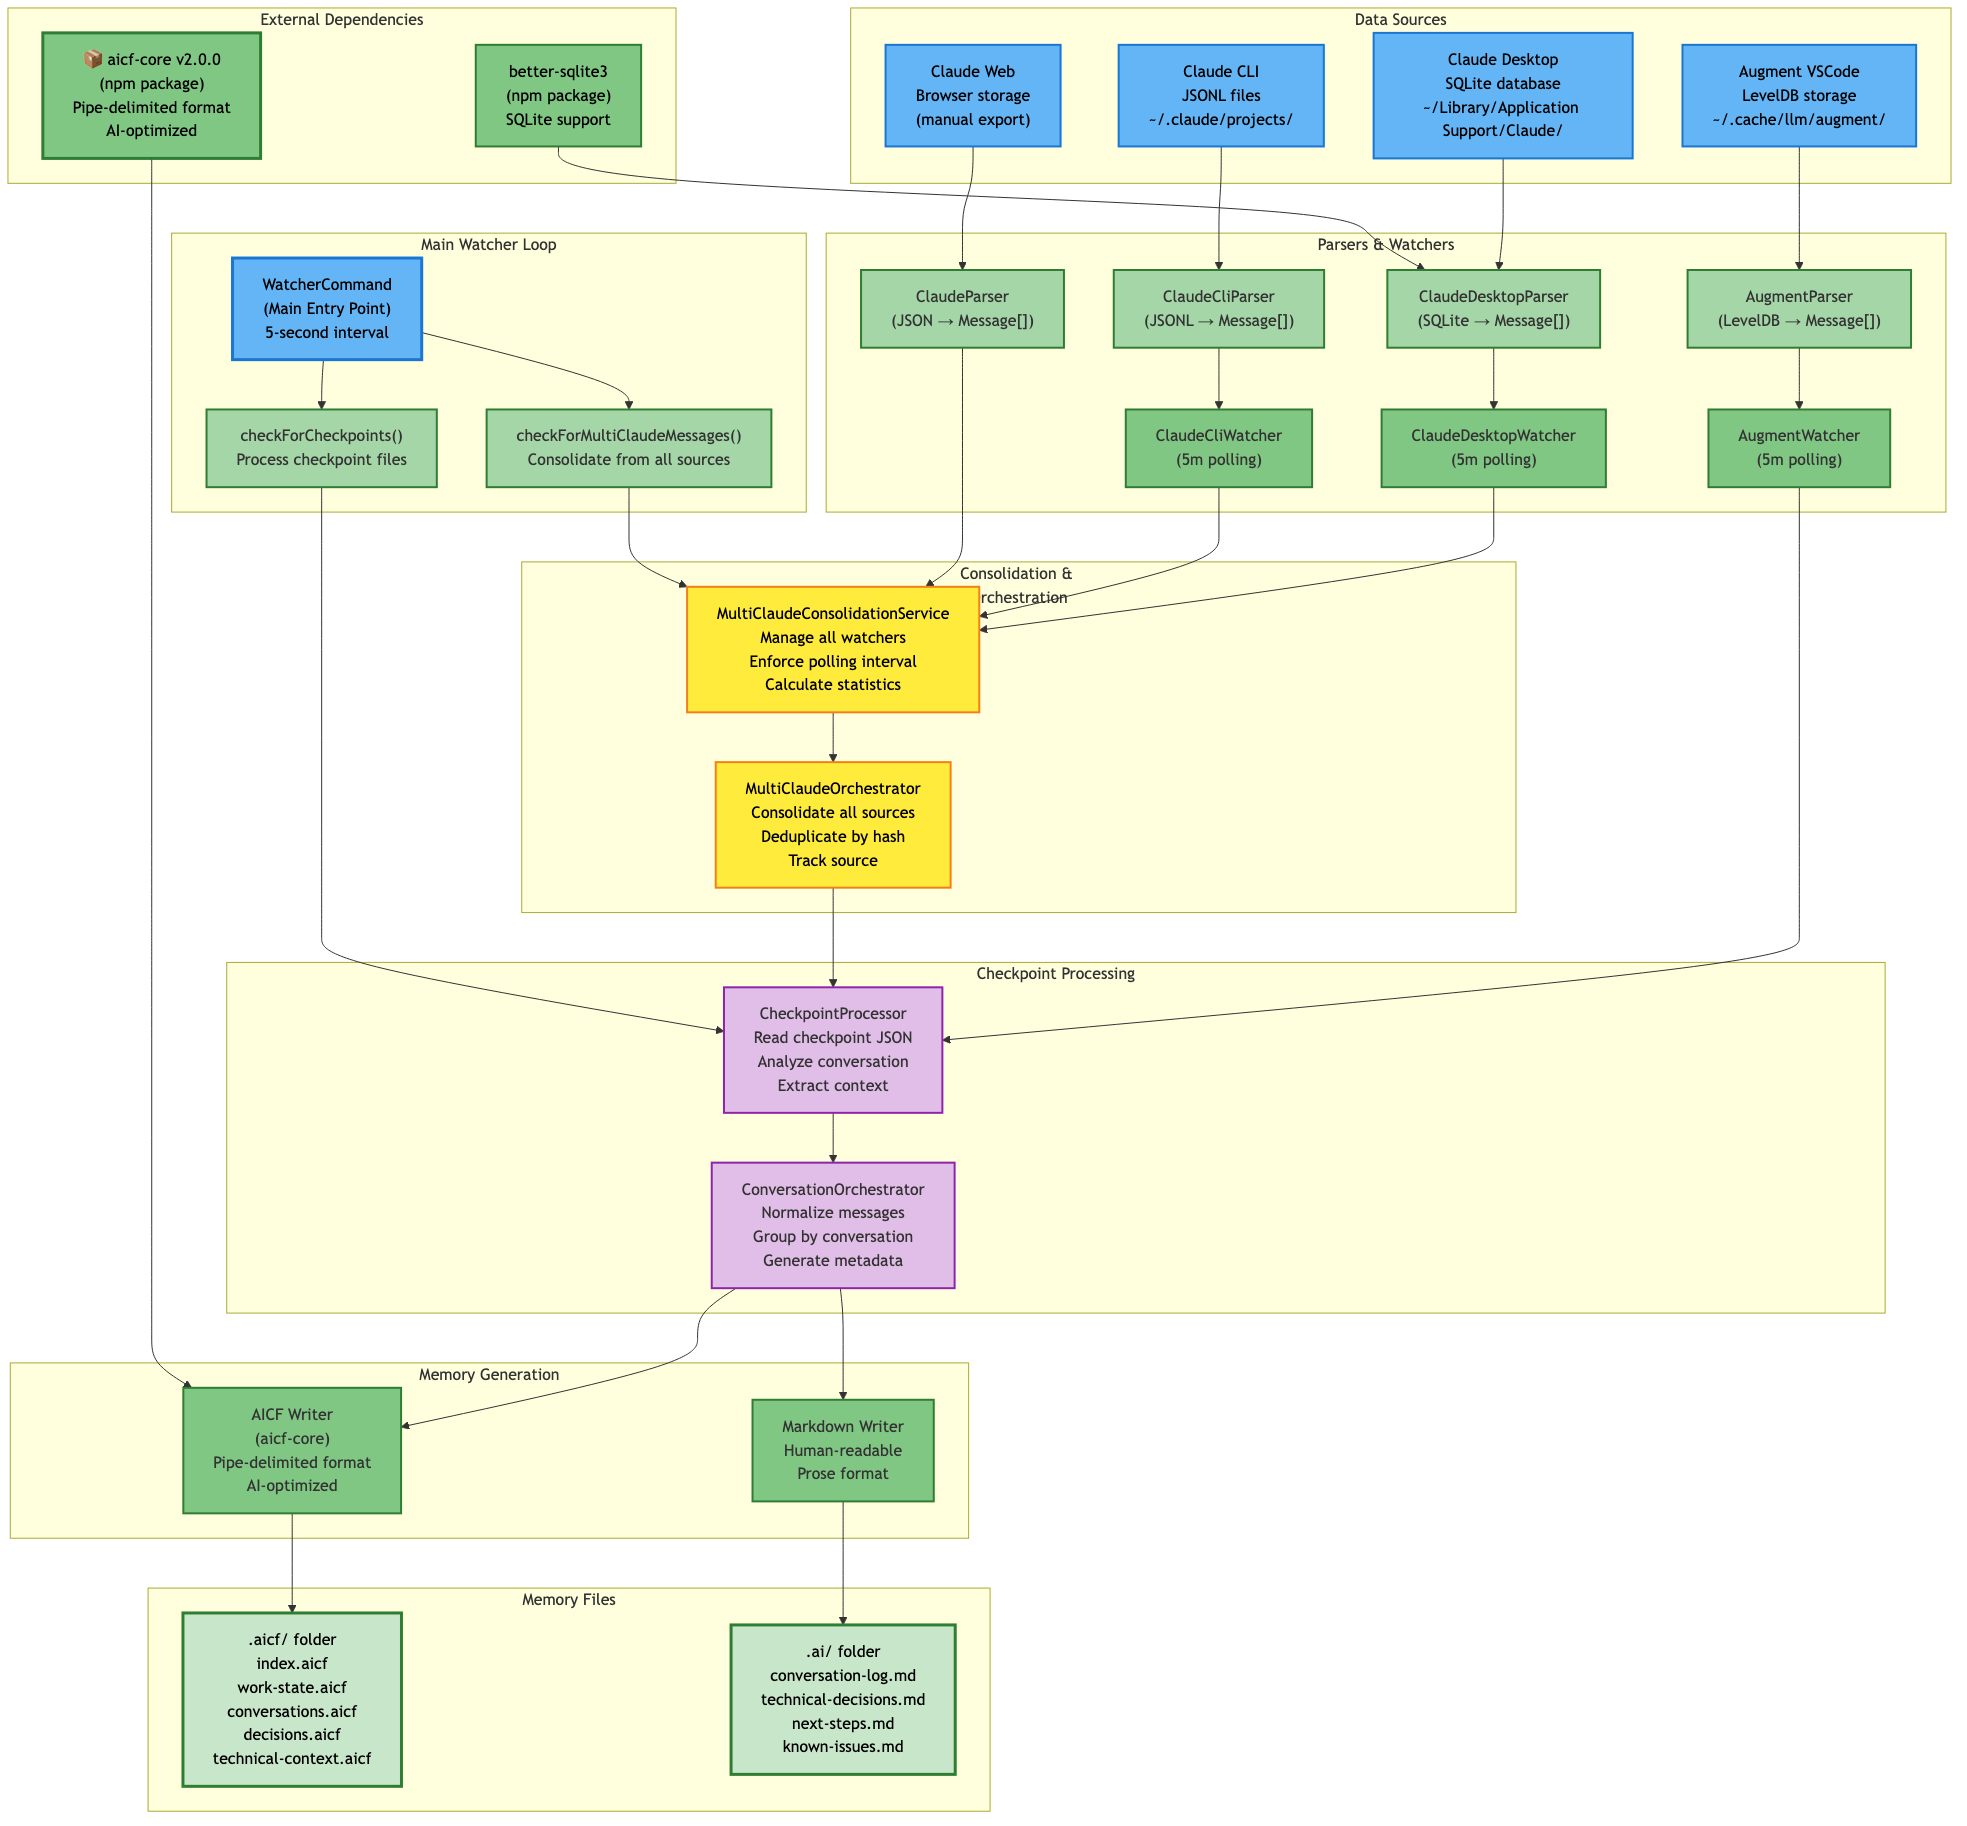
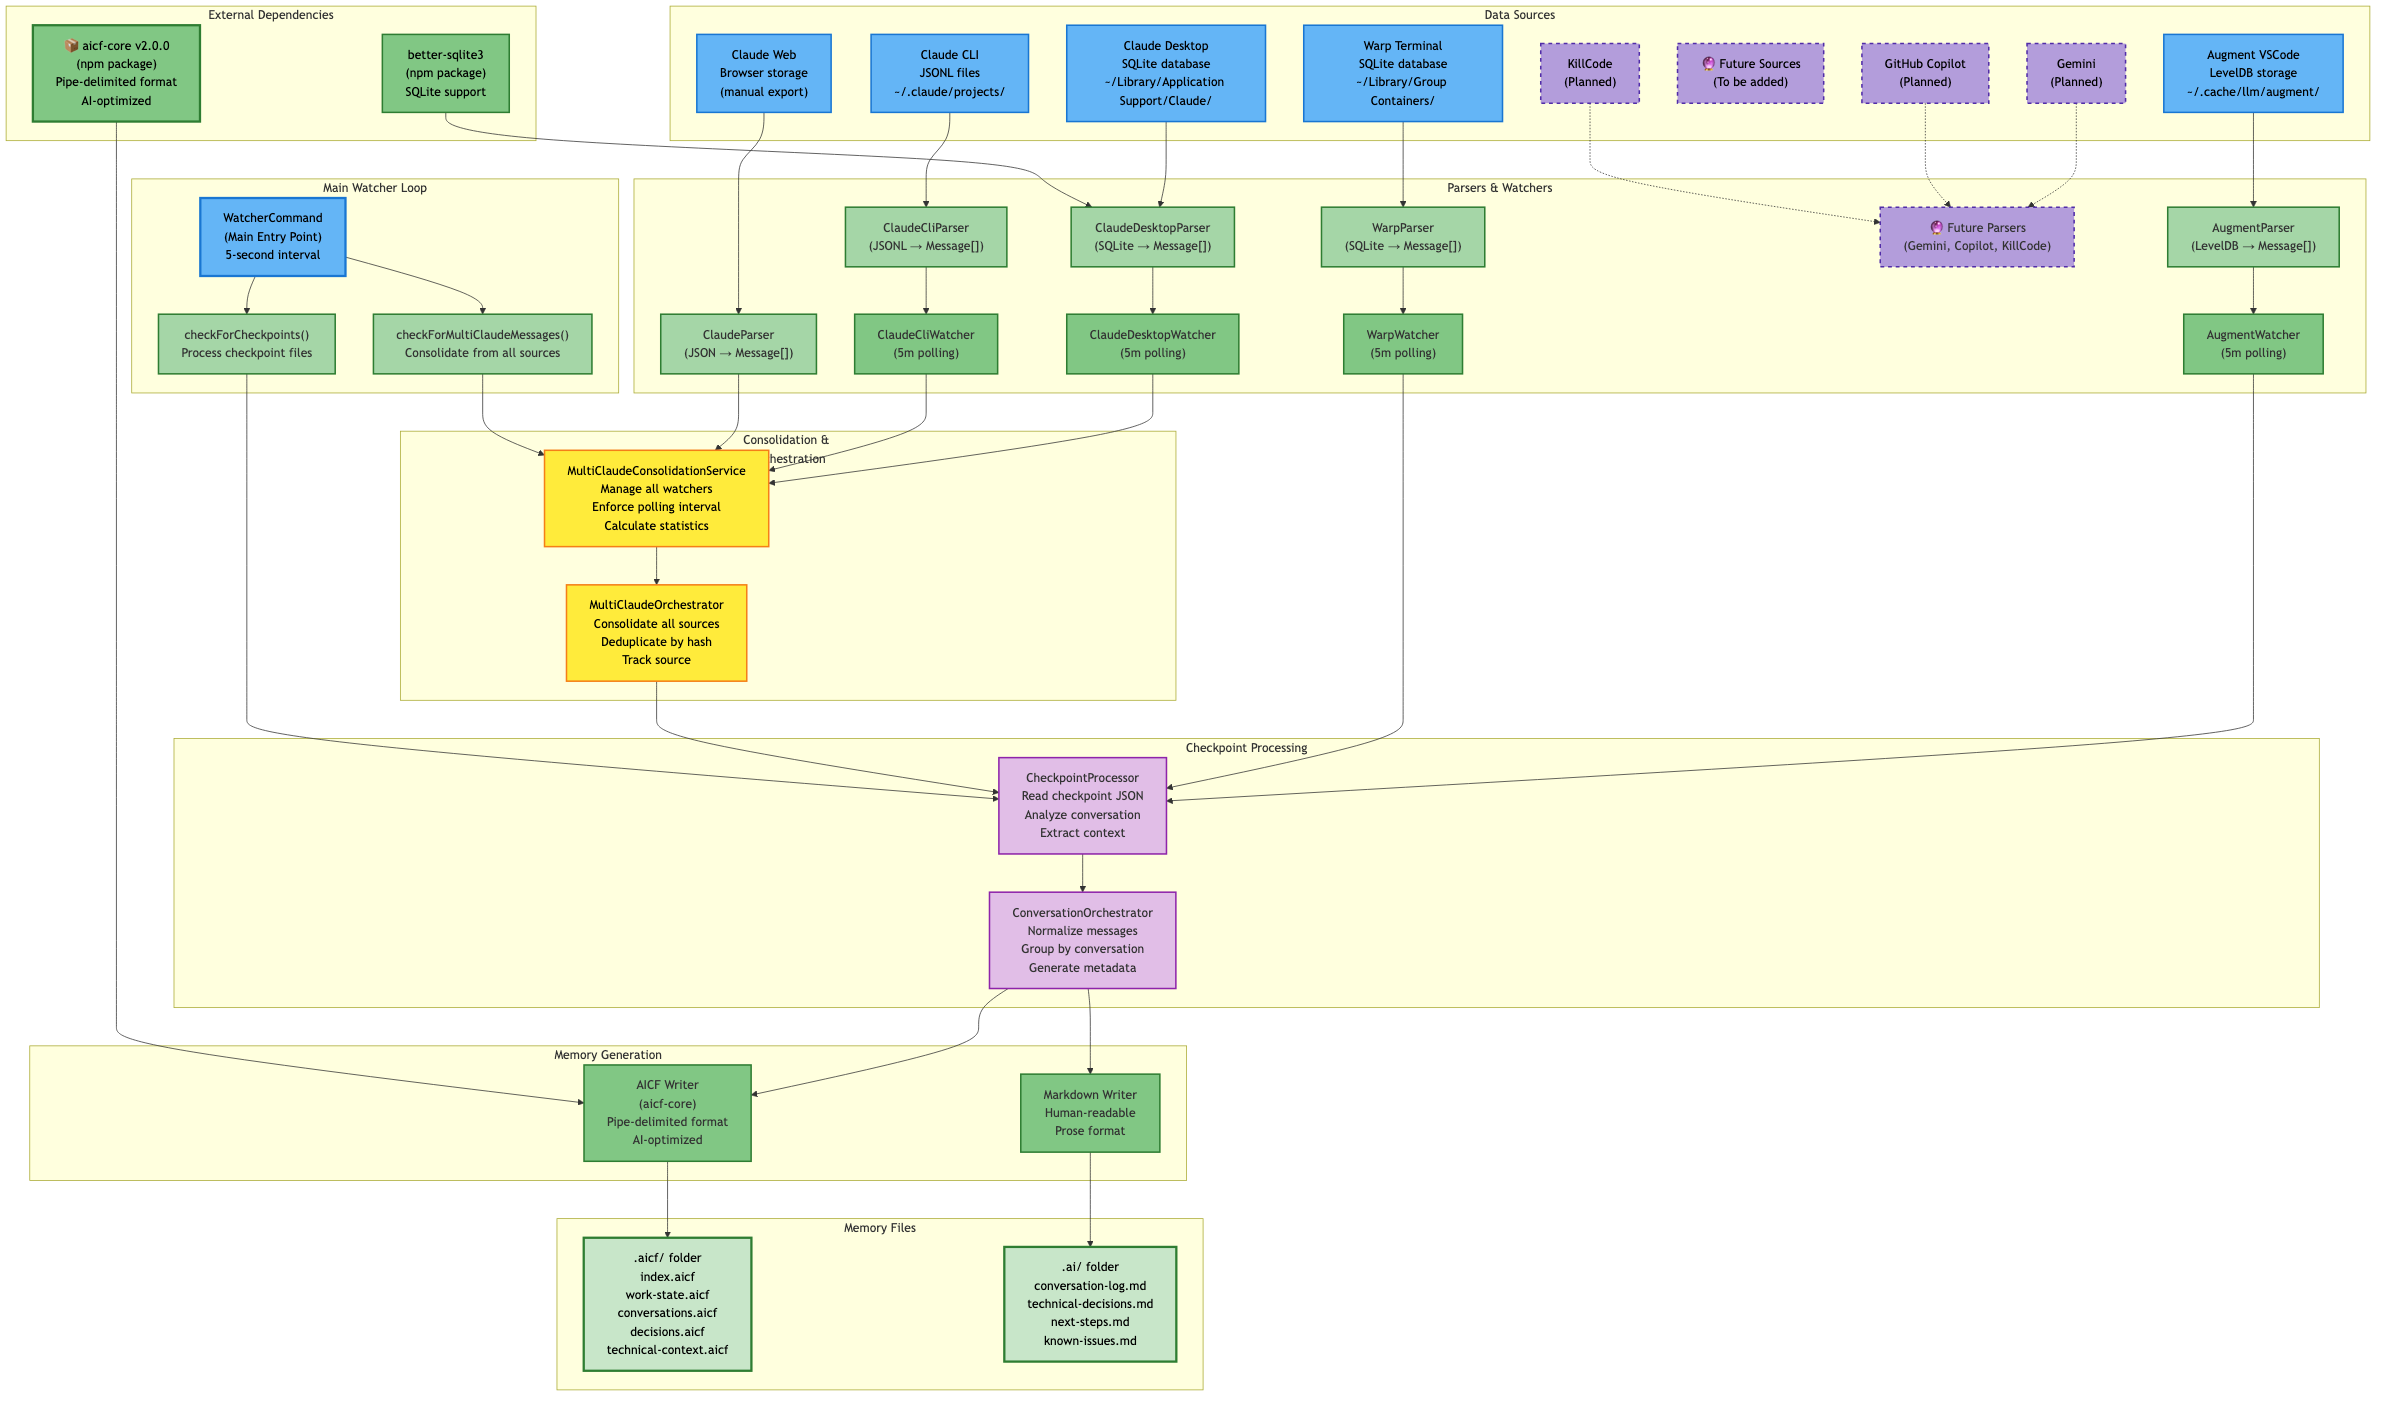
Add Warp Terminal and future AI sources to architecture ✅
ARCHITECTURE UPDATE

WHAT WE ADDED:

Current Data Sources (5):
✅ Augment VSCode (LevelDB)
✅ Warp Terminal (SQLite) - NEW!
✅ Claude Desktop (SQLite)
✅ Claude CLI (JSONL)
✅ Claude Web (Browser storage)

Future Data Sources (Planned):
🔮 Gemini (Google's AI platform)
🔮 GitHub Copilot (Code completion & chat)
🔮 KillCode (Code execution platform)

COMPONENTS ADDED:

Parsers & Watchers:
✅ WarpParser (SQLite → Message[])
✅ WarpWatcher (5m polling)
✅ Future Parsers (Gemini, Copilot, KillCode)

Data Flow:
✅ Warp → WarpParser → WarpWatcher → CheckpointProcessor
✅ Future sources → Future Parsers (dotted connections)

Styling:
✅ Current sources: Blue (#64b5f6)
✅ Future sources: Purple dashed (#b39ddb)
✅ Warp watcher: Green (#81c784)

DIAGRAMS UPDATED:
✅ system-architecture.mmd (Mermaid source)
✅ system-architecture.png (Standard)
✅ system-architecture-hd.png (HD 2400x1800)

DOCUMENTATION UPDATED:
✅ SYSTEM-ARCHITECTURE-GUIDE.md
  - Added Warp Terminal section
  - Added Future Sources section
  - Added Future Parsers section

TOTAL DATA SOURCES: 5 current + 3 planned = 8 total

STATUS: PRODUCTION READY 🚀

diff --git a/docs/SYSTEM-ARCHITECTURE-GUIDE.md b/docs/SYSTEM-ARCHITECTURE-GUIDE.md
@@ -1,7 +1,7 @@
 # System Architecture Guide
 
-**Date:** October 22, 2025  
-**Status:** Current & Production-Ready  
+**Date:** October 22, 2025
+**Status:** Current & Production-Ready
 
 ---
 
@@ -16,12 +16,14 @@ The `create-ai-chat-context-experimental` package is a comprehensive AI conversa
 ### 1. External Dependencies
 
 **aicf-core v2.0.0** (npm package)
+
 - Pipe-delimited format specification
 - AI-optimized for fast parsing
 - Published by Dennis van Leeuwen
 - Handles AICF file writing
 
 **better-sqlite3** (npm package)
+
 - Synchronous SQLite3 library
 - Used for Claude Desktop database parsing
 - Version 12.4.1
@@ -30,27 +32,43 @@ The `create-ai-chat-context-experimental` package is a comprehensive AI conversa
 
 ### 2. Data Sources
 
-Four AI platforms are supported:
+**Current Sources (5 platforms):**
 
 **Augment VSCode**
+
 - Storage: LevelDB files
 - Location: `~/.cache/llm/augment/`
 - Content: Development workflow context
 
+**Warp Terminal**
+
+- Storage: SQLite database
+- Location: `~/Library/Group Containers/`
+- Content: Terminal session history
+
 **Claude Desktop**
+
 - Storage: SQLite database
 - Location: `~/Library/Application Support/Claude/`
 - Content: Conversation history
 
 **Claude CLI**
+
 - Storage: JSONL files
 - Location: `~/.claude/projects/`
 - Content: Session conversations
 
 **Claude Web**
+
 - Storage: Browser storage
 - Method: Manual JSON export
 - Content: Conversation exports
+
+**Future Sources (Planned):**
+
+- 🔮 **Gemini** - Google's AI platform
+- 🔮 **GitHub Copilot** - Code completion & chat
+- 🔮 **KillCode** - Code execution platform
 
 ---
 
@@ -59,36 +77,54 @@ Four AI platforms are supported:
 Each data source has a parser and watcher:
 
 **AugmentParser + AugmentWatcher**
+
 - Parses LevelDB format
 - Polls every 5 minutes
 - Extracts development workflow
 
+**WarpParser + WarpWatcher**
+
+- Parses SQLite database
+- Polls every 5 minutes
+- Extracts terminal session history
+
 **ClaudeDesktopParser + ClaudeDesktopWatcher**
+
 - Parses SQLite database
 - Polls every 5 minutes
 - Detects changes via file modification time
 
 **ClaudeCliParser + ClaudeCliWatcher**
+
 - Parses JSONL files
 - Polls every 5 minutes
 - Scans project directories
 
 **ClaudeParser** (Manual)
+
 - Parses JSON exports
 - Used by ImportClaudeCommand
 - One-time import per conversation
+
+**Future Parsers** (Planned)
+
+- 🔮 GeminiParser - Google's AI platform
+- 🔮 CopilotParser - GitHub Copilot integration
+- 🔮 KillCodeParser - Code execution platform
 
 ---
 
 ### 4. Consolidation & Orchestration
 
 **MultiClaudeOrchestrator**
+
 - Consolidates messages from all sources
 - Deduplicates by SHA256 content hash
 - Tracks source information
 - Resolves conflicts (keeps earliest)
 
 **MultiClaudeConsolidationService**
+
 - Manages all Claude watchers
 - Enforces 5-minute polling interval
 - Calculates statistics
@@ -99,11 +135,13 @@ Each data source has a parser and watcher:
 ### 5. Checkpoint Processing
 
 **CheckpointProcessor**
+
 - Reads checkpoint JSON files
 - Analyzes conversation content
 - Extracts context and metadata
 
 **ConversationOrchestrator**
+
 - Normalizes messages to Message[] format
 - Groups by conversation
 - Generates metadata
@@ -114,12 +152,14 @@ Each data source has a parser and watcher:
 ### 6. Memory Generation
 
 **AICF Writer** (aicf-core)
+
 - Writes pipe-delimited format
 - AI-optimized for fast parsing
 - Structured data sections
 - Efficient token usage
 
 **Markdown Writer**
+
 - Writes human-readable prose
 - Organized by sections
 - Easy to read and edit
@@ -130,6 +170,7 @@ Each data source has a parser and watcher:
 ### 7. Memory Files
 
 **.aicf/ folder** (AI-optimized)
+
 - `index.aicf` - Project overview
 - `work-state.aicf` - Current work status
 - `conversations.aicf` - Conversation history
@@ -137,6 +178,7 @@ Each data source has a parser and watcher:
 - `technical-context.aicf` - Architecture & patterns
 
 **.ai/ folder** (Human-readable)
+
 - `conversation-log.md` - Detailed conversation history
 - `technical-decisions.md` - Technical decisions
 - `next-steps.md` - Planned work
@@ -147,17 +189,20 @@ Each data source has a parser and watcher:
 ### 8. Main Watcher Loop
 
 **WatcherCommand** (Entry Point)
+
 - Runs every 5 seconds
 - Checks for checkpoint files
 - Consolidates multi-Claude messages
 - Processes and generates memory files
 
 **checkForCheckpoints()**
+
 - Scans checkpoint directory
 - Processes new checkpoint files
 - Triggers Augment context capture
 
 **checkForMultiClaudeMessages()**
+
 - Checks if 5-minute polling interval met
 - Consolidates from all Claude sources
 - Calculates statistics
@@ -190,7 +235,9 @@ Memory Files (.aicf/ and .ai/)
 ## 📊 Key Components
 
 ### Message[] Format
+
 All parsers normalize to a common `Message[]` format:
+
 ```typescript
 interface Message {
   id: string;
@@ -203,12 +250,15 @@ interface Message {
 ```
 
 ### Result Type Pattern
+
 Type-safe error handling without exceptions:
+
 ```typescript
 type Result<T> = Ok<T> | Err<Error>;
 ```
 
 ### Polling Intervals
+
 - **Checkpoint polling:** 5 seconds (main loop)
 - **Multi-Claude polling:** 5 minutes (enforced by service)
 - **Augment polling:** 5 minutes (via checkpoint processing)
@@ -218,26 +268,31 @@ type Result<T> = Ok<T> | Err<Error>;
 ## 🎯 Design Principles
 
 ### 1. Complementary Systems
+
 - Augment captures development workflow
 - Claude captures deliberate conversations
 - Both feed into unified memory
 
 ### 2. Efficient Resource Usage
+
 - Same 5-minute polling interval
 - Low disk I/O (periodic, not continuous)
 - Minimal CPU overhead
 
 ### 3. Type Safety
+
 - TypeScript strict mode
 - Result type pattern
 - No exceptions thrown
 
 ### 4. Dual Format Strategy
+
 - `.aicf/` for AI consumption (fast, structured)
 - `.ai/` for human readability (detailed, prose)
 - Both kept in sync
 
 ### 5. Automatic & Transparent
+
 - No user action required
 - Automatic detection of sources
 - Graceful degradation if sources unavailable
@@ -293,4 +348,3 @@ The system architecture provides:
 6. **Production-ready** system ready for deployment
 
 **Complete, efficient, and ready to use!** 🚀
-

diff --git a/.ai/conversation-log.md b/.ai/conversation-log.md
@@ -19474,3 +19474,17 @@ This led to choosing AGPL-3.0 over patents, ensuring maximum accessibility while
 - 📈 **Progress:** 1/1 tasks (85%)
 - 🚫 **Blockers:** no current blockers
 - ⏭ **Next:** continue development
+
+**2025-10-22 - c70c4ac9-7e2c-462d-a Checkpoint 1:**
+
+- 🔄 **Working on:** development
+- 📈 **Progress:** 1/1 tasks (85%)
+- 🚫 **Blockers:** no current blockers
+- ⏭ **Next:** continue development
+
+**2025-10-22 - c70c4ac9-7e2c-462d-a Checkpoint 1:**
+
+- 🔄 **Working on:** development
+- 📈 **Progress:** 1/1 tasks (85%)
+- 🚫 **Blockers:** no current blockers
+- ⏭ **Next:** continue development

diff --git a/.ai/next-steps.md b/.ai/next-steps.md
@@ -427,6 +427,18 @@ Roadmap and priorities for your project.
 - ✅ **Completed** 1 tasks
 
 
+**2025-10-22 - c70c4ac9-7e2c-462d-a Checkpoint 1:**
+
+- ✅ **Progressed on** development
+- ✅ **Completed** 1 tasks
+
+
+**2025-10-22 - c70c4ac9-7e2c-462d-a Checkpoint 1:**
+
+- ✅ **Progressed on** development
+- ✅ **Completed** 1 tasks
+
+
 ### Terminal SQLite Integration (2025-10-22)
 - Direct SQLite database conversation extraction
 - Enhanced markdown generation with full conversation data
